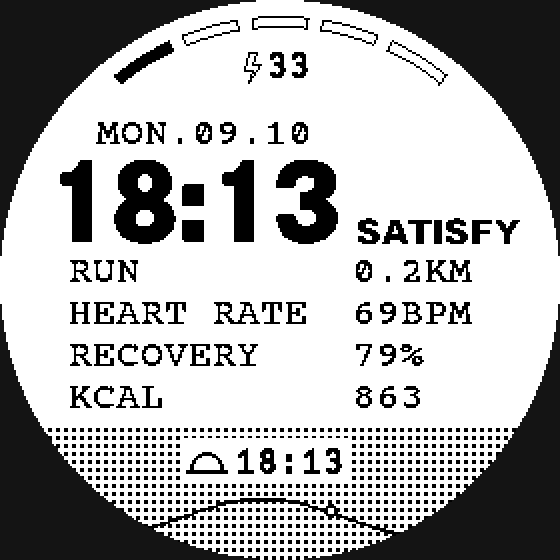
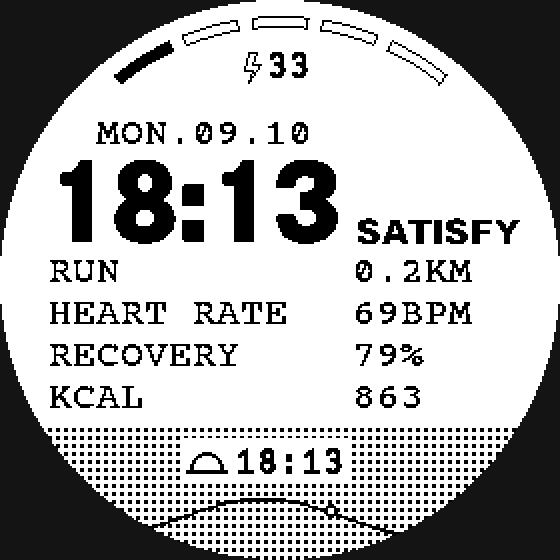
Data rows start at x=24

Changed region(s): [[0.0911, 0.4554, 0.5464, 0.5768], [0.0911, 0.6071, 0.4554, 0.7286]]

diff --git a/gen_svg.py b/gen_svg.py
@@ -12,7 +12,7 @@ import math
 CX = CY = 140
 BATT_Y, DATE_Y, TIME_Y, SAT_Y = 22, 56, 67, 106
 BATT_X, DATE_X = 133, 48
-LABEL_X, COL2_X, SAT_X, TIME_X = 34, 176, 178, 22
+LABEL_X, COL2_X, SAT_X, TIME_X = 24, 176, 178, 22
 ROW_Y = [125, 146, 167, 188]
 BAND_Y = 214
 SEG_COUNT, SEG_LEN, SEG_END, SEG_GAP, SEG_R_OUT, SEG_R_IN = 5, 12.0, 14.0, 3.5, 131, 126

diff --git a/preview.py b/preview.py
@@ -61,7 +61,7 @@ COL2_X  = 176
 SAT_X   = 178
 SAT_Y   = 106
 ROW_Y   = [125, 146, 167, 188]
-LABEL_X = 34
+LABEL_X = 24
 BAND_Y  = 214
 
 # band + hill line with sun marker
